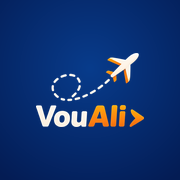
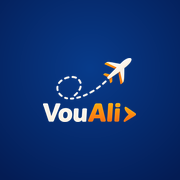
Icone para de cortar, abertura corrigida e um Ali por vez
ICONE CORTADO. Erro meu de aritmetica. Onde o sistema recorta, o que sobra
garantido e o CIRCULO de 72 das 108 unidades do icone. Eu conferi que a
LARGURA do logo (60%) cabia nesses 66,7% e dei por resolvido -- mas o que
tem de caber e a DIAGONAL da caixa. Com a proporcao 1,45 do logo, 60% de
largura da 73% de diagonal: os cantos passam do circulo, e os cantos sao
justamente o aviao (superior direito) e a seta (borda direita).

Agora a largura sai de conta, nao de palpite: MIOLO * largura / diagonal,
com 6% de folga para fabricantes que recortam alem do padrao. Da 51,6%. Se a
arte mudar de proporcao, o numero se ajusta sozinho.

ABERTURA TRUNCADA. Causa diferente. A partir do Android 12 o sistema desenha
um selo redondo com o icone, e quando recebe um icone ADAPTATIVO ainda o
amplia em 1,5x, porque espera que so o miolo seja aproveitado. O logo ja no
limite virava logo estourado. A abertura passa a ter um desenho proprio
(splash_icon), que nao sofre essa ampliacao, sobre um selo navy.

DOIS ALIS. A espera da geracao era uma gaveta, e por baixo dela ficava a
tela de boas-vindas com outro retrato do Ali. Agora a espera ocupa a tela
inteira, em creme opaco: sao quinze segundos olhando para ela, e o certo e
que tenha um Ali so. Conferido por oclusao -- os outros dois retratos
continuam no DOM, mas cobertos.

Changed region(s): [[0.1944, 0.3889, 0.8056, 0.7222], [0.5278, 0.2778, 0.7778, 0.5]]

diff --git a/frontend/src/components/TripForm.jsx b/frontend/src/components/TripForm.jsx
@@ -5,7 +5,7 @@ import { SparkIcon } from "./Icons";
 import { apiGenerate } from "../api";
 import { toast } from "../toast";
 import { CURRENCIES, INTERESSES, GRUPOS, TRANSPORTES, ehTransporteConhecido, guessCurrency, daysBetween, formatDateLabel, suggestGroup } from "../tripmeta";
-import { btn, field, lbl, NAVY, ORANGE, SAND, HELV, INK2, INK3 } from "../theme";
+import { btn, field, lbl, NAVY, ORANGE, SAND, CREAM, HELV, DISPLAY, INK2, INK3 } from "../theme";
 import { digitarNumero, numeroDoCampo, campoDeNumero } from "../utils";
 
 const GEN_MSGS = [
@@ -16,7 +16,13 @@ const GEN_MSGS = [
   "Caprichando nos detalhes…",
 ];
 
-// Tela de espera da geração: o Ali "trabalhando", com mensagens rotativas.
+/**
+ * Tela de espera da geração: o Ali "trabalhando", com mensagens rotativas.
+ *
+ * Ocupa a tela inteira de propósito. Como gaveta, ela deixava aparecer a tela
+ * de boas-vindas atrás — com OUTRO retrato do Ali. Dois Alis ao mesmo tempo
+ * confundem, e são quinze segundos olhando para isso.
+ */
 function GenProgress() {
   const [i, setI] = useState(0);
   useEffect(() => {
@@ -24,11 +30,14 @@ function GenProgress() {
     return () => clearInterval(iv);
   }, []);
   return (
-    <div style={{ padding: "40px 22px 48px", display: "flex", flexDirection: "column", alignItems: "center", textAlign: "center" }} aria-live="polite">
-      <AliAvatar size={88} portrait ring={ORANGE} />
-      <div style={{ fontSize: 20, fontWeight: 800, color: NAVY, marginTop: 18 }}>Ali está montando seu roteiro</div>
-      <div key={i} style={{ fontSize: 15, fontWeight: 600, color: INK2, marginTop: 10, animation: "fadeUp .35s ease" }}>{GEN_MSGS[i]}</div>
-      <div style={{ fontSize: 13, color: INK3, fontWeight: 500, marginTop: 22 }}>Isso leva uns 15 segundos. Depois você pode editar tudo.</div>
+    <div aria-live="polite" role="status"
+      style={{ position: "fixed", inset: 0, zIndex: 60, background: CREAM, display: "flex", justifyContent: "center", alignItems: "center", padding: "24px", boxSizing: "border-box" }}>
+      <div style={{ display: "flex", flexDirection: "column", alignItems: "center", textAlign: "center", maxWidth: 340 }}>
+        <AliAvatar size={104} portrait ring={ORANGE} />
+        <div style={{ fontSize: 21, fontWeight: 800, color: NAVY, marginTop: 20, fontFamily: DISPLAY }}>Ali está montando seu roteiro</div>
+        <div key={i} style={{ fontSize: 15.5, fontWeight: 600, color: INK2, marginTop: 10, animation: "fadeUp .35s ease" }}>{GEN_MSGS[i]}</div>
+        <div style={{ fontSize: 13, color: INK3, fontWeight: 500, marginTop: 26, lineHeight: 1.5 }}>Isso leva uns 15 segundos. Depois você pode editar tudo.</div>
+      </div>
     </div>
   );
 }
@@ -155,9 +164,11 @@ export default function TripForm({ trip, onSave, onClose, onDelete, canDelete })
     </>
   );
 
+  // Enquanto gera, a tela de espera toma o lugar da gaveta inteira.
+  if (gerando) return <GenProgress />;
+
   return (
-    <Sheet onClose={gerando ? () => {} : onClose} acoes={acoes}>
-      {gerando ? <GenProgress /> : (
+    <Sheet onClose={onClose} acoes={acoes}>
       <div style={{ padding: "22px 22px 20px" }}>
         <div style={{ fontSize: 20, fontWeight: 800, color: NAVY }}>{trip ? "Editar viagem" : "Nova viagem"}</div>
 
@@ -303,9 +314,7 @@ export default function TripForm({ trip, onSave, onClose, onDelete, canDelete })
             )}
           </>
         )}
-
       </div>
-      )}
     </Sheet>
   );
 }

diff --git a/identidade-visual-vouali/gerar-artes.py b/identidade-visual-vouali/gerar-artes.py
@@ -35,9 +35,15 @@ CLARO = (8, 60, 140)
 ESCURO = (4, 28, 84)
 FOCO = (0.50, 0.38)     # onde o brilho é mais forte
 
-# Quanto da largura o logo ocupa em cada situação.
-LOGO_MASCARADO = 0.60   # onde o sistema recorta (adaptativo, maskable, iOS)
-LOGO_INTEIRO = 0.85     # onde a arte aparece como foi desenhada
+# Onde o sistema recorta, o que sobra garantido é o CÍRCULO de 72 das 108
+# unidades do ícone. Não basta a largura do logo caber nesses 66,7%: o que
+# tem de caber é a DIAGONAL da caixa dele, senão os cantos passam do círculo —
+# foi assim que o avião (canto superior direito) e a seta (borda direita)
+# apareceram cortados. A largura máxima sai da proporção do próprio logo, e
+# não de um número escolhido a olho, para não errar de novo se a arte mudar.
+MIOLO = 72 / 108
+FOLGA = 0.94            # fabricantes que recortam um pouco além do padrão
+LOGO_INTEIRO = 0.85     # onde a arte aparece como foi desenhada, sem máscara
 
 # 108dp de tela em cada densidade
 DENSIDADES = {"mdpi": 1, "hdpi": 1.5, "xhdpi": 2, "xxhdpi": 3, "xxxhdpi": 4}
@@ -123,9 +129,17 @@ def circular(img):
     return img
 
 
+def largura_segura(logo):
+    """Maior largura em que a caixa do logo cabe inteira no miolo circular."""
+    diagonal = (logo.width ** 2 + logo.height ** 2) ** 0.5
+    return MIOLO * logo.width / diagonal * FOLGA
+
+
 def main():
     logo = recortar_logo()
-    print(f"logo recortado: {logo.width}x{logo.height}")
+    mascarado = largura_segura(logo)
+    print(f"logo recortado: {logo.width}x{logo.height} (proporção {logo.width/logo.height:.2f})")
+    print(f"largura no miolo circular: {mascarado:.1%} — nada de corte")
 
     # ---------- Android: ícone adaptativo ----------
     # Fundo e logo em camadas separadas, cada uma sangrando 108dp.
@@ -134,12 +148,12 @@ def main():
         pasta = ANDROID / f"mipmap-{nome}"
         pasta.mkdir(parents=True, exist_ok=True)
         fundo_navy(lado).convert("RGB").save(pasta / "ic_launcher_background.png")
-        compor(logo, lado, LOGO_MASCARADO, fundo=False).save(pasta / "ic_launcher_foreground.png")
+        compor(logo, lado, mascarado, fundo=False).save(pasta / "ic_launcher_foreground.png")
 
         # Aparelhos antigos (antes do Android 8) não têm ícone adaptativo:
         # recebem a arte já composta e já arredondada.
         legado = round(48 * escala)
-        cheio = compor(logo, legado, LOGO_MASCARADO)
+        cheio = compor(logo, legado, mascarado)
         arredondar(cheio).save(pasta / "ic_launcher.png")
         circular(cheio).save(pasta / "ic_launcher_round.png")
         print(f"  {nome}: adaptativo {lado}px, legado {legado}px")
@@ -150,15 +164,24 @@ def main():
     for lado in (192, 512):
         arredondar(compor(logo, lado, LOGO_INTEIRO)).save(WEB / f"icon-{lado}.png")
     # "maskable" e iOS: o sistema recorta, então o navy sangra e o logo encolhe.
-    compor(logo, 512, LOGO_MASCARADO).convert("RGB").save(WEB / "icon-512-maskable.png")
-    compor(logo, 180, LOGO_MASCARADO).convert("RGB").save(WEB / "icon-180.png")
+    compor(logo, 512, mascarado).convert("RGB").save(WEB / "icon-512-maskable.png")
+    compor(logo, 180, mascarado).convert("RGB").save(WEB / "icon-180.png")
     print("  web: icon-192, icon-512, icon-512-maskable, icon-180")
+
+    # ---------- Ícone da abertura (Android 12+) ----------
+    # O sistema NÃO usa a imagem de splash: ele desenha um selo redondo com o
+    # ícone do app. E se receber o ícone adaptativo, ainda amplia em 1,5× — foi
+    # o que espremeu a palavra contra a borda. Um desenho próprio evita isso:
+    # só o logo, sobre nada, no mesmo tamanho relativo do ícone do launcher.
+    (ANDROID / "drawable").mkdir(parents=True, exist_ok=True)
+    compor(logo, 960, mascarado, fundo=False).save(ANDROID / "drawable" / "splash_icon.png")
+    print("  abertura: splash_icon.png (logo sobre o selo navy do sistema)")
 
     # ---------- Telas de abertura do Android ----------
     # Creme com o ícone no meio — o mesmo creme com que o app abre. A abertura
     # inteira fica de uma cor só: sem piscada entre a tela do sistema, a do
     # Capacitor e a do próprio app.
-    selo = arredondar(compor(logo, 1024, LOGO_MASCARADO))
+    selo = arredondar(compor(logo, 1024, mascarado))
     for pasta in sorted(ANDROID.glob("drawable*")):
         alvo = pasta / "splash.png"
         if not alvo.exists():
